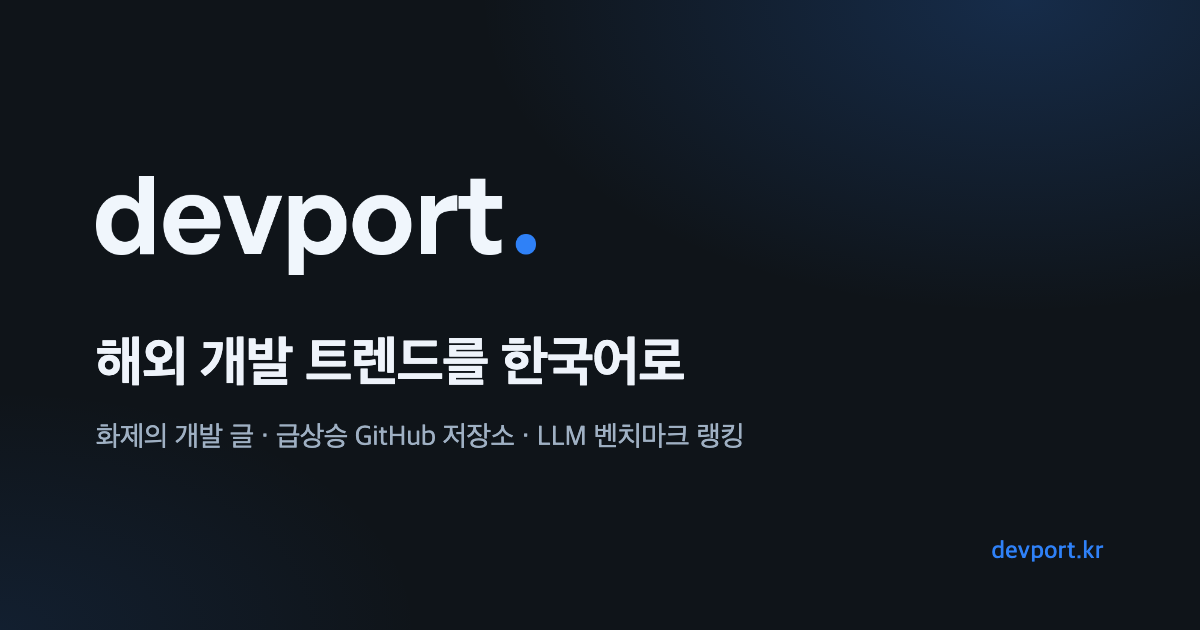
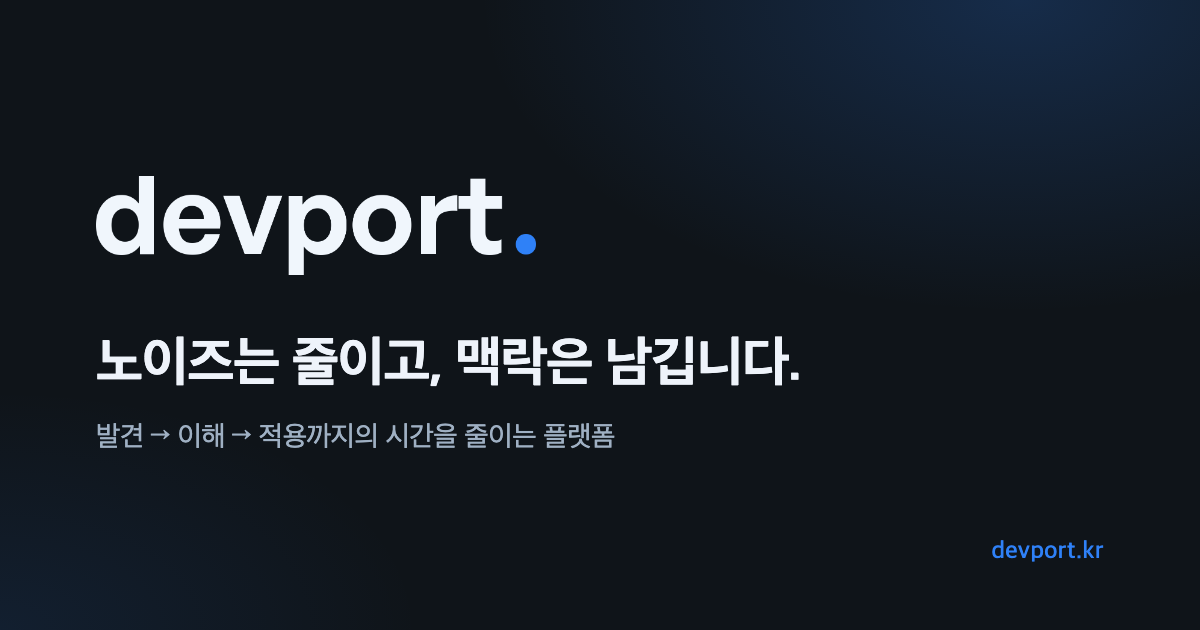
chore: SEO 소개 문구를 서비스 포지셔닝에 맞게 변경
- 기본 title/description을 '노이즈는 줄이고, 맥락은 남깁니다' 중심으로 교체
- Ports, LLM 랭킹 페이지 설명을 서비스 소개 문구에 맞춤
- 공유 미리보기 이미지 문구 변경

Changed region(s): [[0.0617, 0.5127, 0.6783, 0.6333], [0.0617, 0.6635, 0.6167, 0.7238]]

diff --git a/index.html b/index.html
@@ -3,8 +3,8 @@
   <head>
     <meta charset="UTF-8" />
     <meta name="viewport" content="width=device-width, initial-scale=1.0, viewport-fit=cover" />
-    <title>devport · 해외 개발 트렌드를 한국어로</title>
-    <meta name="description" content="GitHub, Hacker News, Reddit, Dev.to에서 화제가 된 개발 글과 급상승 저장소, LLM 벤치마크 랭킹을 한국어로 정리해 한곳에서 보여줍니다." />
+    <title>devport · 노이즈는 줄이고, 맥락은 남깁니다</title>
+    <meta name="description" content="매일 쏟아지는 AI 프로젝트, 많이 보는 것보다 제대로 이해하는 것이 중요합니다. devport는 흩어진 기술을 맥락 중심으로 재구성해 발견부터 이해, 적용까지의 시간을 줄입니다." />
     <link rel="icon" type="image/png" sizes="192x192" href="/favicon.png" />
     <link rel="apple-touch-icon" href="/apple-touch-icon.png" />
     <meta name="theme-color" content="#0f1419" />
@@ -14,14 +14,14 @@
     <meta property="og:site_name" content="devport" />
     <meta property="og:locale" content="ko_KR" />
     <meta property="og:type" content="website" />
-    <meta property="og:title" content="devport · 해외 개발 트렌드를 한국어로" />
-    <meta property="og:description" content="GitHub, Hacker News, Reddit, Dev.to에서 화제가 된 개발 글과 급상승 저장소, LLM 벤치마크 랭킹을 한국어로 정리해 한곳에서 보여줍니다." />
+    <meta property="og:title" content="devport · 노이즈는 줄이고, 맥락은 남깁니다" />
+    <meta property="og:description" content="매일 쏟아지는 AI 프로젝트, 많이 보는 것보다 제대로 이해하는 것이 중요합니다. devport는 흩어진 기술을 맥락 중심으로 재구성해 발견부터 이해, 적용까지의 시간을 줄입니다." />
     <meta property="og:image" content="https://devport.kr/og-image.png" />
     <meta property="og:image:width" content="1200" />
     <meta property="og:image:height" content="630" />
     <meta name="twitter:card" content="summary_large_image" />
-    <meta name="twitter:title" content="devport · 해외 개발 트렌드를 한국어로" />
-    <meta name="twitter:description" content="GitHub, Hacker News, Reddit, Dev.to에서 화제가 된 개발 글과 급상승 저장소, LLM 벤치마크 랭킹을 한국어로 정리해 한곳에서 보여줍니다." />
+    <meta name="twitter:title" content="devport · 노이즈는 줄이고, 맥락은 남깁니다" />
+    <meta name="twitter:description" content="매일 쏟아지는 AI 프로젝트, 많이 보는 것보다 제대로 이해하는 것이 중요합니다. devport는 흩어진 기술을 맥락 중심으로 재구성해 발견부터 이해, 적용까지의 시간을 줄입니다." />
     <meta name="twitter:image" content="https://devport.kr/og-image.png" />
 
     <!-- Site name and logo for Google search results -->
@@ -34,6 +34,7 @@
             "@id": "https://devport.kr/#website",
             "name": "devport",
             "alternateName": "devport.kr",
+            "description": "매일 쏟아지는 AI 프로젝트, 많이 보는 것보다 제대로 이해하는 것이 중요합니다. devport는 흩어진 기술을 맥락 중심으로 재구성해 발견부터 이해, 적용까지의 시간을 줄입니다.",
             "url": "https://devport.kr/",
             "inLanguage": "ko-KR",
             "publisher": { "@id": "https://devport.kr/#organization" }

diff --git a/src/pages/HomePage.tsx b/src/pages/HomePage.tsx
@@ -5,7 +5,7 @@ import TrendingTicker from '../components/TrendingTicker';
 import ArticleCard from '../components/ArticleCard';
 import { getArticles, getTrendingTicker } from '../services/articles/articlesService';
 import type { Article, Category } from '../types';
-import { usePageMeta } from '../lib/seo';
+import { DEFAULT_TITLE, usePageMeta } from '../lib/seo';
 
 export default function HomePage() {
   usePageMeta({});
@@ -145,7 +145,7 @@ export default function HomePage() {
         <main className="px-4 md:px-8 pt-8 pb-24 lg:pb-8">
           <div className="max-w-2xl mx-auto">
             {/* Page heading for search engines and screen readers; the feed is the visual header */}
-            <h1 className="sr-only">devport · 해외 개발 트렌드를 한국어로</h1>
+            <h1 className="sr-only">{DEFAULT_TITLE}</h1>
             {/* Articles Section */}
             <section>
               {/* Category Tabs */}

diff --git a/src/lib/seo.ts b/src/lib/seo.ts
@@ -4,9 +4,9 @@ import { stripMarkdown } from './markdown';
 
 export const SITE_URL = 'https://devport.kr';
 export const SITE_NAME = 'devport';
-export const DEFAULT_TITLE = 'devport · 해외 개발 트렌드를 한국어로';
+export const DEFAULT_TITLE = 'devport · 노이즈는 줄이고, 맥락은 남깁니다';
 export const DEFAULT_DESCRIPTION =
-  'GitHub, Hacker News, Reddit, Dev.to에서 화제가 된 개발 글과 급상승 저장소, LLM 벤치마크 랭킹을 한국어로 정리해 한곳에서 보여줍니다.';
+  '매일 쏟아지는 AI 프로젝트, 많이 보는 것보다 제대로 이해하는 것이 중요합니다. devport는 흩어진 기술을 맥락 중심으로 재구성해 발견부터 이해, 적용까지의 시간을 줄입니다.';
 export const DEFAULT_IMAGE = `${SITE_URL}/og-image.png`;
 
 export interface PageMeta {

diff --git a/src/pages/LLMRankingsPage.tsx b/src/pages/LLMRankingsPage.tsx
@@ -19,7 +19,7 @@ export default function LLMRankingsPage() {
   usePageMeta({
     title: 'LLM 벤치마크 랭킹',
     description:
-      'GPT, Claude, Gemini 등 주요 LLM의 코딩·추론·수학·에이전틱 벤치마크 점수와 이미지·영상 생성 모델 순위를 Artificial Analysis 데이터로 한곳에서 비교합니다.',
+      'LLM과 멀티모달 모델의 벤치마크 데이터를 비교 가능한 형태로 정리합니다. 코딩·추론·수학·에이전틱 성능과 이미지·영상 생성 모델 순위를 Artificial Analysis 데이터로 비교하세요.',
   });
   const [tickerArticles, setTickerArticles] = useState<any[]>([]);
   const [isPageLoading, setIsPageLoading] = useState(true);

diff --git a/src/pages/PortsDirectoryPage.tsx b/src/pages/PortsDirectoryPage.tsx
@@ -19,7 +19,7 @@ export default function PortsDirectoryPage() {
   usePageMeta({
     title: 'Ports · AI 오픈소스 프로젝트 위키',
     description:
-      '매일 쏟아지는 AI 프로젝트들, portki가 대신 확인하고 정리해드립니다. 프로젝트별 한국어 위키를 읽고 챗봇에게 궁금한 것을 물어보세요.',
+      '단순히 저장소를 보여주지 않습니다. AI 오픈소스 프로젝트의 구조와 목적, 릴리즈와 활동 흐름을 한국어 위키로 정리해 필요한 부분만 빠르게 파악할 수 있습니다.',
   });
   const navigate = useNavigate();
 
